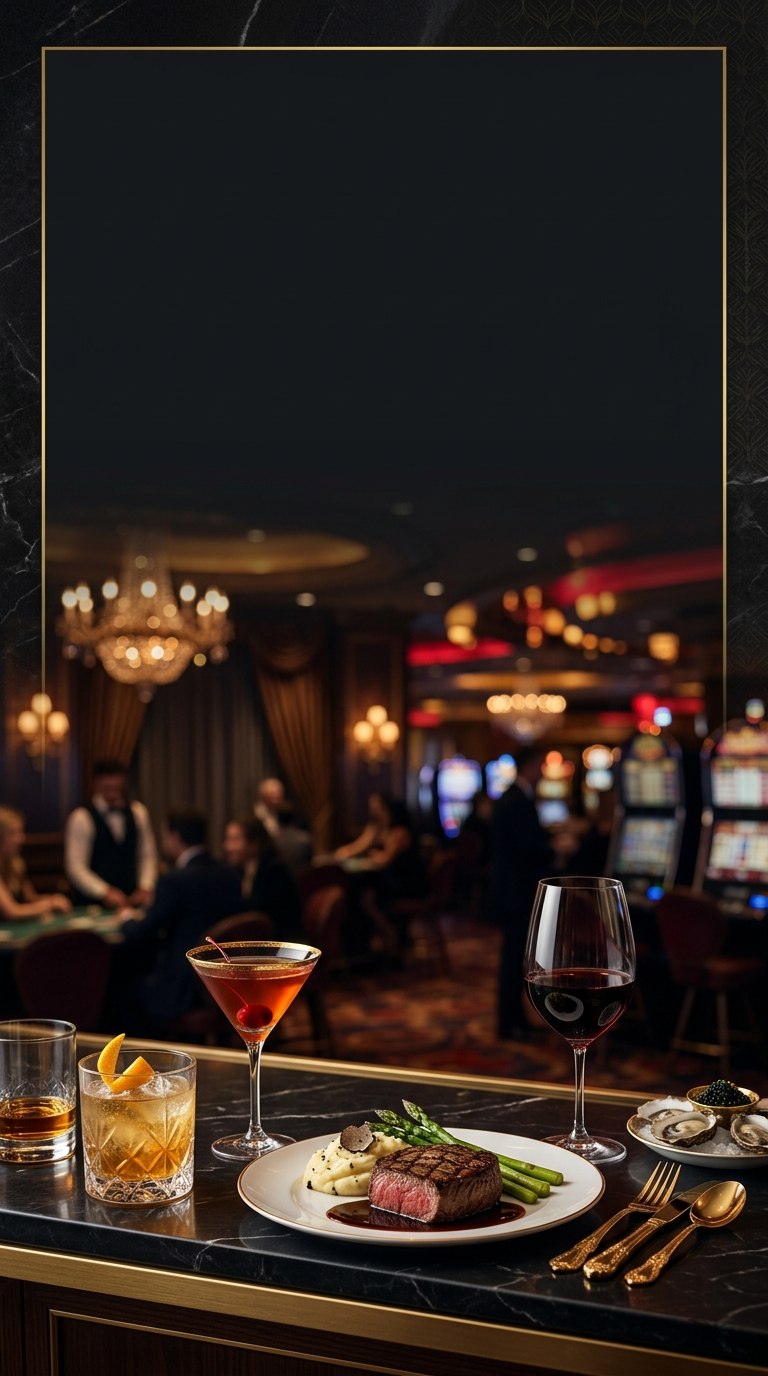
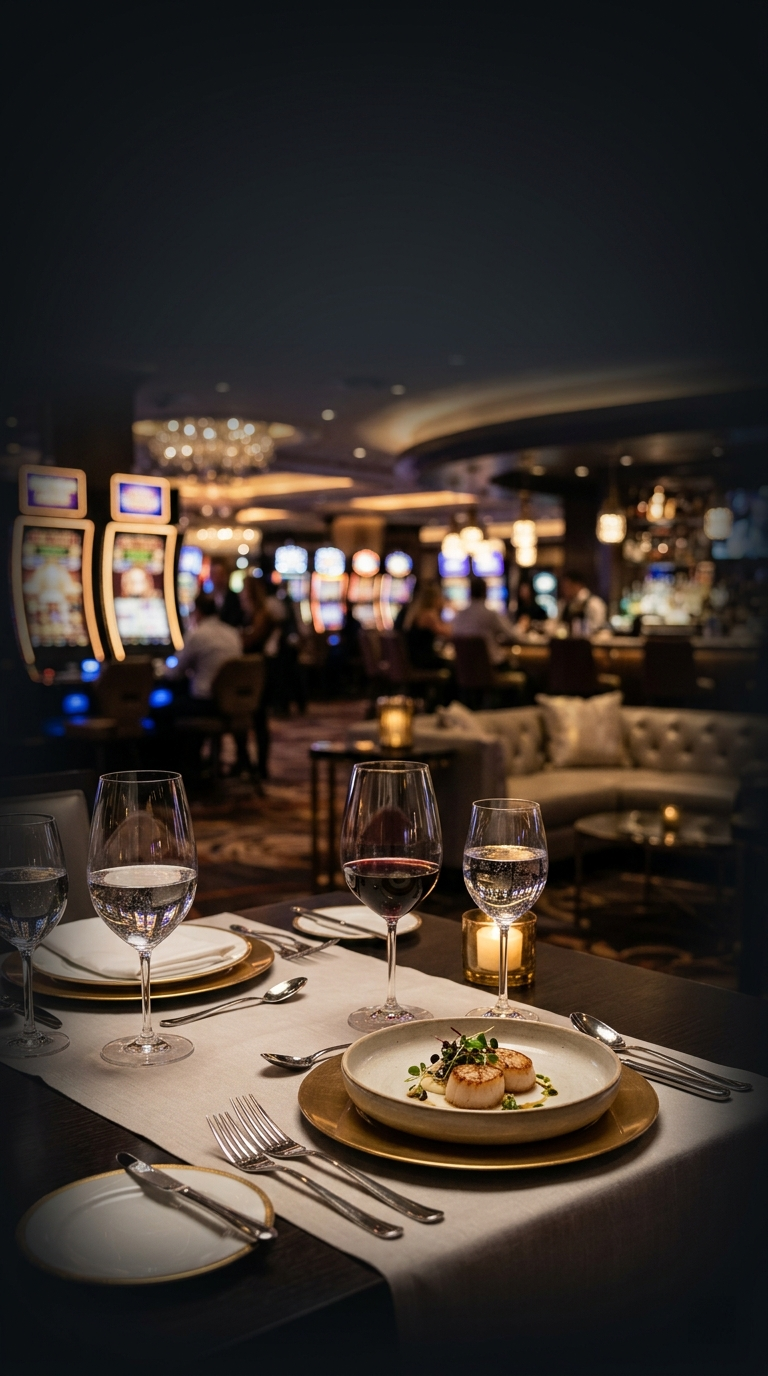
add

diff --git a/lib/screens/login_screen.dart b/lib/screens/login_screen.dart
@@ -139,9 +139,9 @@ class _LoginScreenState extends State<LoginScreen> {
                           if (value == null || value.isEmpty) {
                             return 'Password is required';
                           }
-                          // if (value.length < 4) {
-                          //   return 'Minimum 4 characters';
-                          // }
+                          if (value.length < 4) {
+                            return 'Minimum 4 characters';
+                          }
                           return null;
                         },
                       ),
@@ -173,10 +173,9 @@ class _LoginScreenState extends State<LoginScreen> {
   Widget _buildLogo() {
     return Center(
       child: Container(
-        width: 84,
-        height: 84,
+        width: 200,
+        height: 200,
         decoration: BoxDecoration(
-          gradient: AppColors.primaryGradient,
           borderRadius: BorderRadius.circular(20),
           boxShadow: [
             BoxShadow(
@@ -186,7 +185,13 @@ class _LoginScreenState extends State<LoginScreen> {
             ),
           ],
         ),
-        child: const Icon(Icons.restaurant, color: Colors.white, size: 42),
+        child: ClipRRect(
+          borderRadius: BorderRadius.circular(20),
+          child: Image.asset(
+            'assets/images/login_logo.png',
+            fit: BoxFit.cover,
+          ),
+        ),
       ),
     );
   }